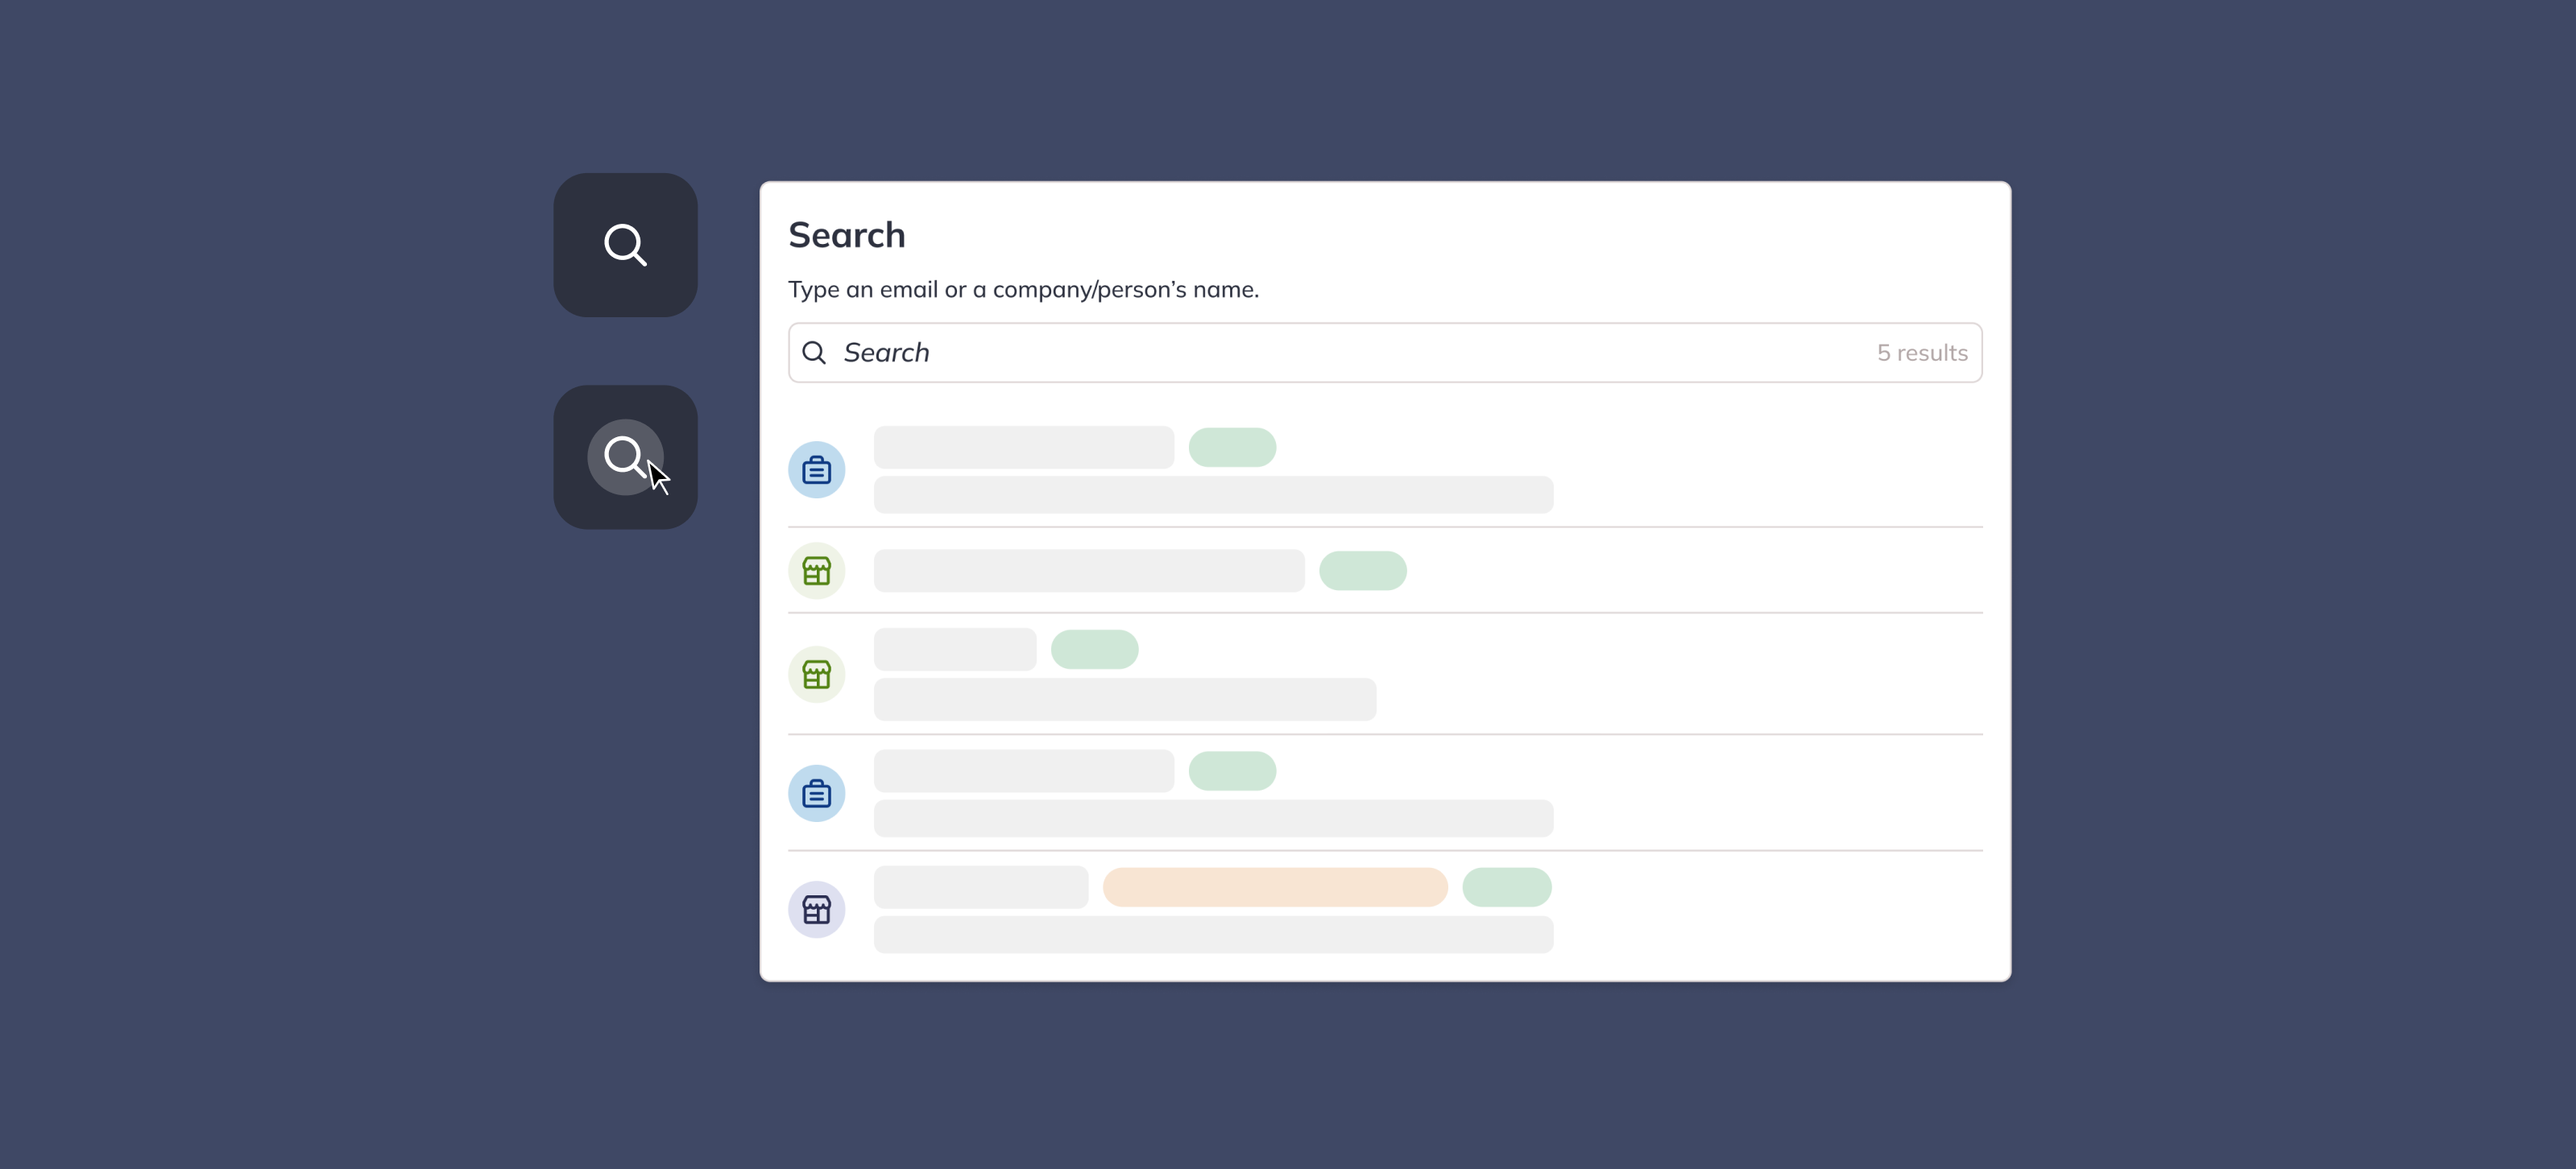
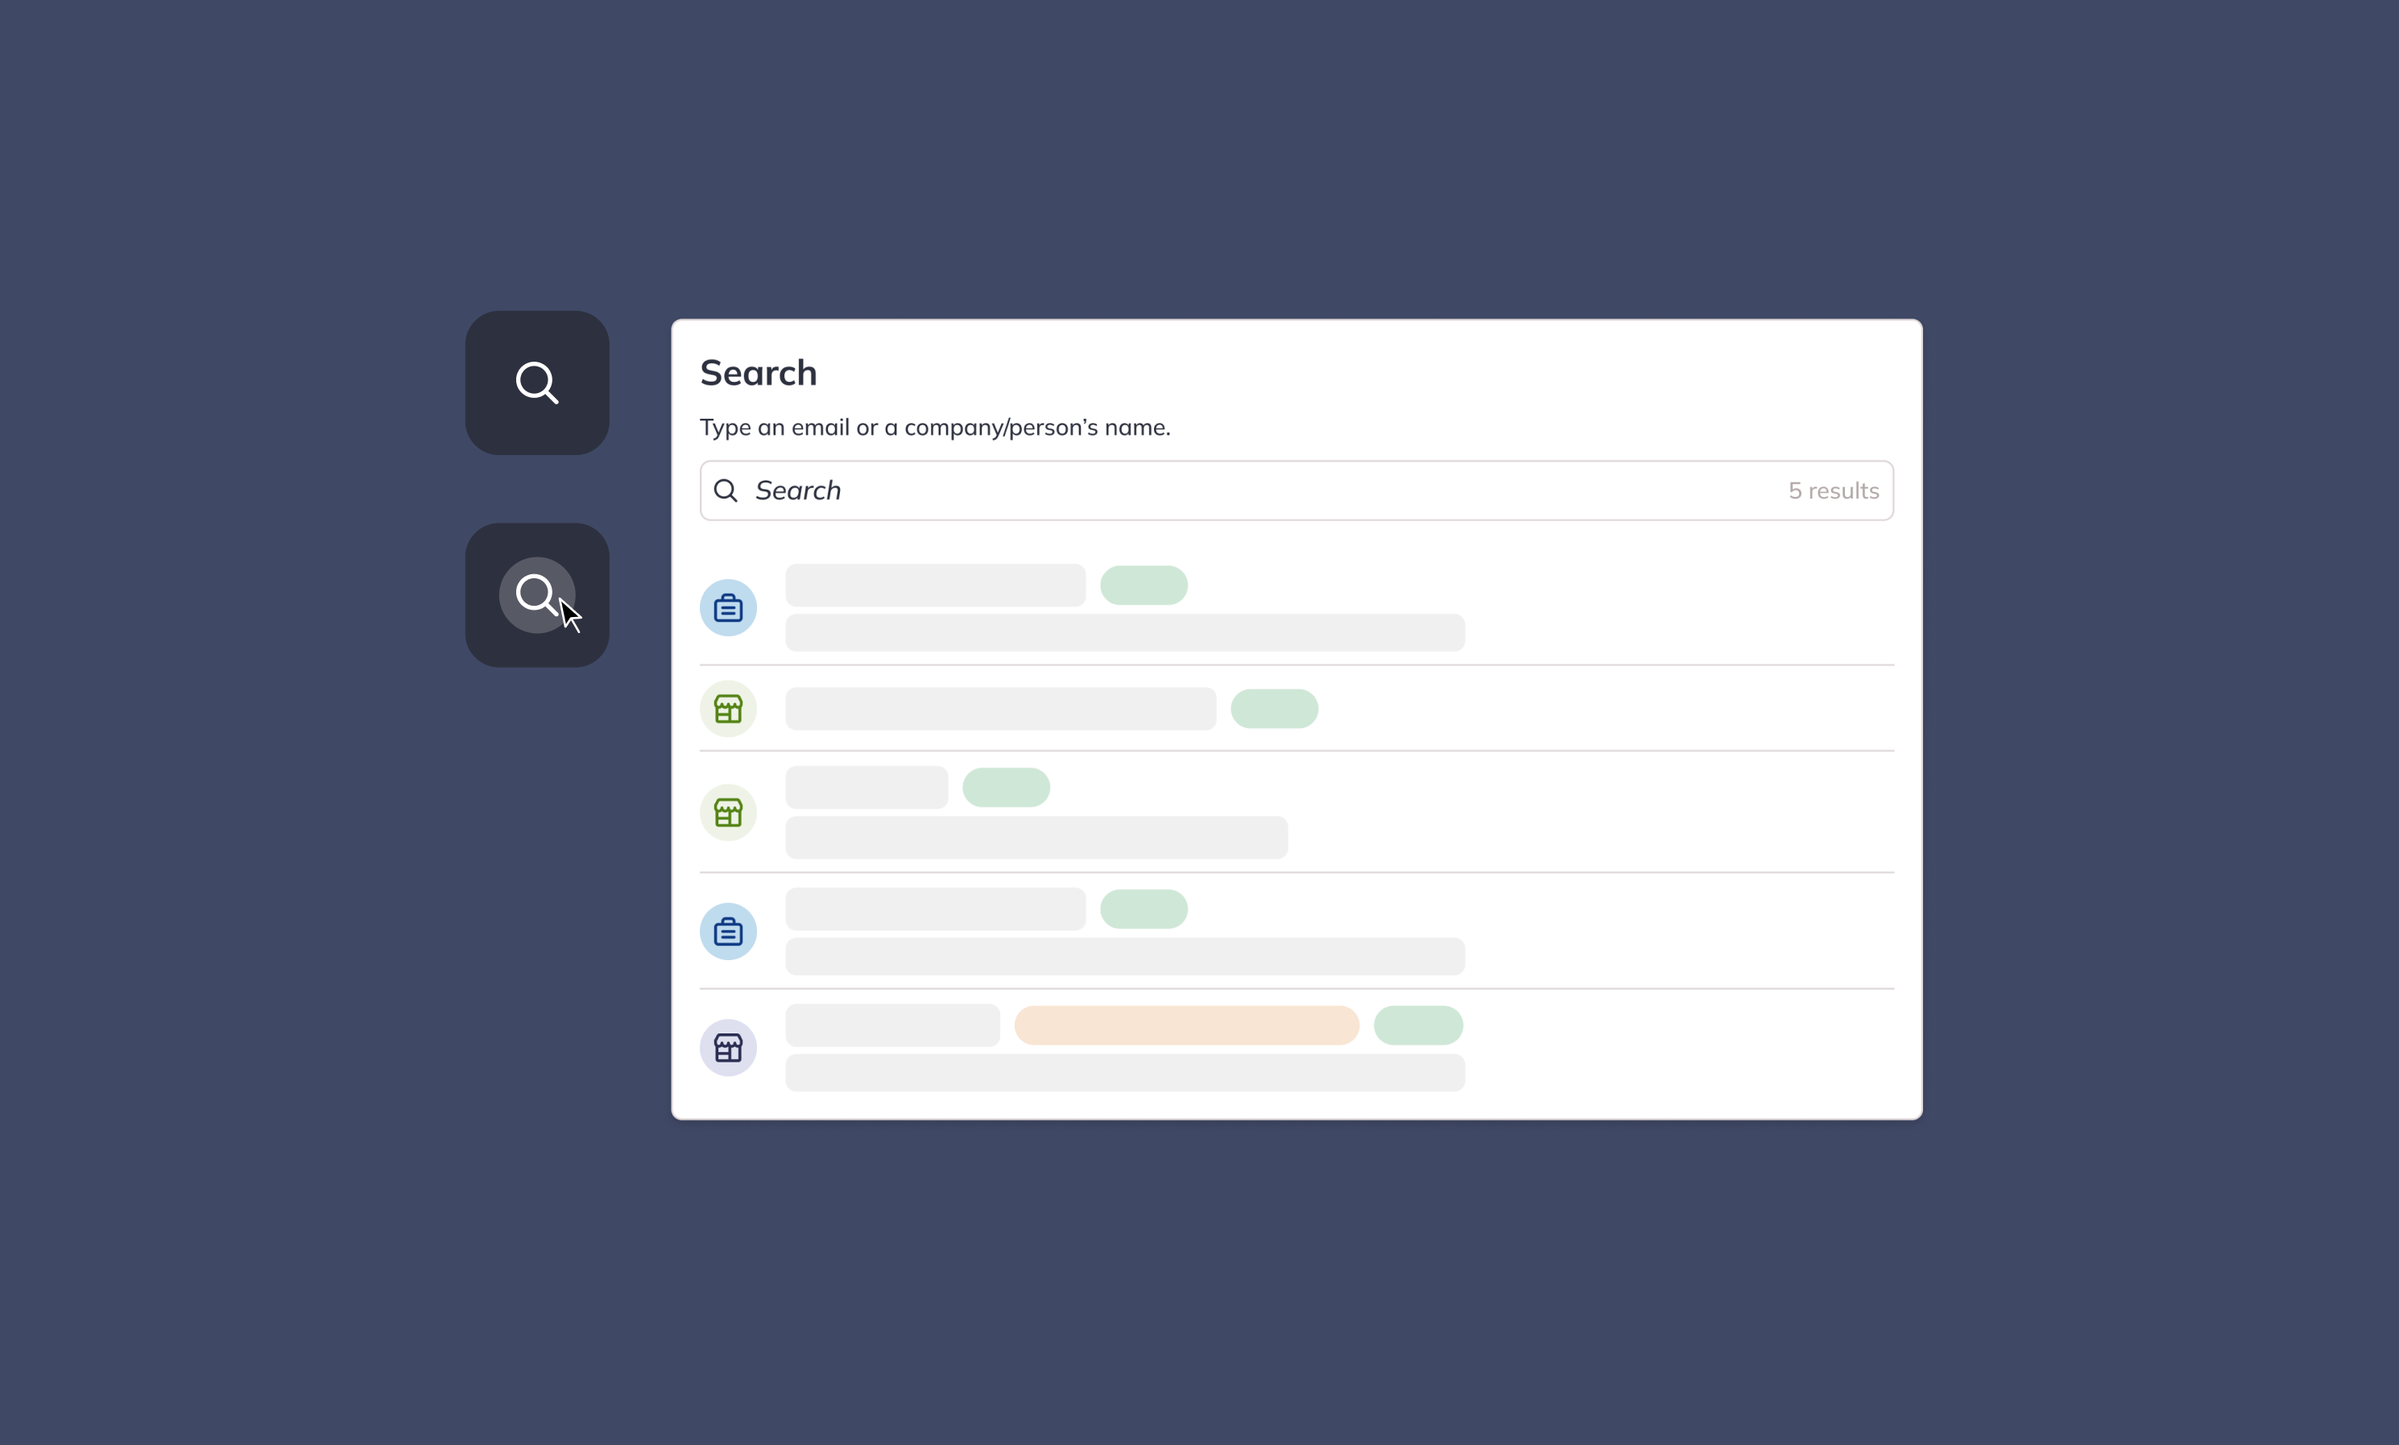
updated thumbnails, borders, and header content

diff --git a/app/wagepoint-alfred-search/page.tsx b/app/wagepoint-alfred-search/page.tsx
@@ -22,7 +22,7 @@ const AlfredSearch = () => {
 		<PageTransition>
 			<div className="section">
 				<ProjectHeader />
-				<div className="mt-8">
+				<div className="mt-8 max-w-4xl mx-auto">
 					<Lightbox imgSrc={Header} header={true} />
 				</div>
 
@@ -40,11 +40,10 @@ const AlfredSearch = () => {
 							<p>
 								Wagepoint’s support agents use an internal tool called Alfred.
 								They have difficulty tracking down which company they’re
-								providing support to. Multiple agents mentioned spending time to
-								“carry out little investigations”, “deep dive”, and “dig around”
-								due to the lack of information the current search function
-								provides. Sometime they’d have to email back and forth for this
-								information.
+								providing support to. Multiple agents needing to spend time to
+								investigate due to the lack of information the current search
+								function provides. Sometimes they’d have to email back and forth
+								for this information.
 							</p>
 						</ElTransition>
 					</div>
@@ -74,9 +73,9 @@ const AlfredSearch = () => {
 				</div>
 
 				<div className="mt-24 py-24 text-center">
-					<p className="text-2xl">
+					<p className="text-2xl md:px-12">
 						“Some customers don’t tell us who they are in the ticket and their
-						email is generic. It’s a daily occurrence. It’s{' '}
+						email is [generic]. It’s a daily occurrence. It’s{' '}
 						<i>very very frustrating.</i>”
 					</p>
 					<p className="text-gray-700 mt-2">Customer support specialist</p>
@@ -125,20 +124,22 @@ const AlfredSearch = () => {
 				</div>
 
 				<div className="mt-24">
-					<ElTransition>
-						<p className="monoFont mb-4 text-sm">Listening to our users</p>
-					</ElTransition>
-					<ElTransition>
-						<h2 className="h2 displayFont mb-4">Requirements</h2>
-					</ElTransition>
-					<ElTransition>
-						<p>
-							We chatted with the Alfred users which included support agents,
-							payroll specialist, and risk agents to learn about what they
-							needed in order to lower frustrations and make their workload more
-							efficient.
-						</p>
-					</ElTransition>
+					<div className="md:w-1/2">
+						<ElTransition>
+							<p className="monoFont mb-4 text-sm">Listening to our users</p>
+						</ElTransition>
+						<ElTransition>
+							<h2 className="h2 displayFont mb-4">Requirements</h2>
+						</ElTransition>
+						<ElTransition>
+							<p>
+								We chatted with the Alfred users which included support agents,
+								payroll specialist, and risk agents to learn about what they
+								needed in order to lower frustrations and make their workload
+								more efficient.
+							</p>
+						</ElTransition>
+					</div>
 					<div className="flex space-between gap-4 mt-8 flex-col md:flex-row">
 						<div className="blueCard">
 							<p>Identify account type</p>
@@ -173,7 +174,7 @@ const AlfredSearch = () => {
 				</div>
 
 				<div className="mt-24 py-24 text-center">
-					<p className="text-2xl">
+					<p className="text-2xl md:px-12">
 						“Getting the insight before you potentially reach back out to a
 						client, it just makes you feel a little <i>more empowered</i>.”
 					</p>
@@ -187,7 +188,7 @@ const AlfredSearch = () => {
 						</h2>
 					</ElTransition>
 					<ElTransition>
-						<p>
+						<p className="w-1/2">
 							The most common search terms were admin name, email, or company
 							name. So we tested use cases based on multiple matching results
 							from the search criteria.
@@ -258,7 +259,7 @@ const AlfredSearch = () => {
 					</div>
 				</div>
 
-				<div className="mt-24">
+				<div className="mt-4">
 					<div className="p-8 rounded bg-yellow-50 flex gap-4">
 						<div>
 							<svg
@@ -302,7 +303,7 @@ const AlfredSearch = () => {
 						<h2 className="text-4xl mb-4">The Alfred Global Search</h2>
 					</ElTransition>
 					<ElTransition>
-						<p>
+						<p className="w-1/2">
 							The new search function lives in the global navigation bar,
 							allowing all users to access the search function from anywhere.
 							This also removes one step of the process as it allows agents to

diff --git a/app/data.ts b/app/data.ts
@@ -9,6 +9,15 @@ import AlfredSearch from '@/app/assets/alfredsearch-thumbail.png';
 
 const projectData = [
 	{
+		id: 'wp-alfredsearch',
+		title: `Wagepoint Global Search`,
+		link: '/wagepoint-alfred-search',
+		description: 'Improving the search function for internal support agents',
+		image: AlfredSearch,
+		role: 'UX Designer & Developer',
+		size: 'w-full md:w-4/6',
+	},
+	{
 		id: 'qcdt',
 		title: 'Queer Club Directory Toronto',
 		link: '/queer-club-directory',
@@ -17,15 +26,6 @@ const projectData = [
 		image: Qcdt,
 		role: 'Interaction Designer & Developer',
 		size: 'w-full md:w-2/6',
-	},
-	{
-		id: 'wp-alfredsearch',
-		title: `Wagepoint Alfred Search`,
-		link: '/wagepoint-alfred-search',
-		description: 'Improving the search function for internal support agents',
-		image: AlfredSearch,
-		role: 'UX Designer & Developer',
-		size: 'w-full md:w-4/6',
 	},
 	{
 		id: 'tpol',
@@ -37,16 +37,16 @@ const projectData = [
 		role: 'Interaction Designer & Developer',
 		size: 'w-full md:w-4/6',
 	},
-	{
-		id: 'wp-ds',
-		title: `Wagepoint Design System`,
-		link: '/wagepoint-design-system',
-		description:
-			'Creating a scalable design system for a multi-product company',
-		image: Wpds,
-		role: 'UX Designer & Developer',
-		size: 'w-full md:w-2/6',
-	},
+	// {
+	// 	id: 'wp-ds',
+	// 	title: `Wagepoint Design System`,
+	// 	link: '/wagepoint-design-system',
+	// 	description:
+	// 		'Creating a scalable design system for a multi-product company',
+	// 	image: Wpds,
+	// 	role: 'UX Designer & Developer',
+	// 	size: 'w-full md:w-2/6',
+	// },
 	{
 		id: 'schroeder',
 		title: `Schroeder’s piano`,
@@ -77,14 +77,14 @@ const projectData = [
 		role: 'Interaction Designer & Developer',
 		size: 'w-full md:w-4/6',
 	},
-	{
-		id: 'freshii',
-		title: 'Super Mushroom filter',
-		link: '/super-mushroom',
-		description: `An Instagram filter of a mushroom haircut to promote Freshii’s Super Mushroom gummies`,
-		image: Freshii,
-		size: 'w-full md:w-2/6',
-	},
+	// {
+	// 	id: 'freshii',
+	// 	title: 'Super Mushroom filter',
+	// 	link: '/super-mushroom',
+	// 	description: `An Instagram filter of a mushroom haircut to promote Freshii’s Super Mushroom gummies`,
+	// 	image: Freshii,
+	// 	size: 'w-full md:w-2/6',
+	// },
 	// {
 	// 	id: '',
 	// 	title: '',

diff --git a/app/page.tsx b/app/page.tsx
@@ -4,11 +4,8 @@ import React from 'react';
 
 import projectData from './data';
 import PageTransition from '@/components/PageTransition';
-import TextSplitAnim from '@/components/TextSplitAnim';
 import LineSplitAnim from '@/components/LineSplitAnim';
 import { useSpring, animated, easings } from 'react-spring';
-
-import HeaderName from '@/components/HeaderName';
 
 const Home = () => {
 	const [cardProps, api] = useSpring(
@@ -28,32 +25,24 @@ const Home = () => {
 	return (
 		<PageTransition>
 			<div className="px-8">
-				<p className="splitAnim">
-					<LineSplitAnim
-						initDelay={1}
-						text={[
-							`I’m a UX Designer and Developer with experience in design systems,`,
-							`building for scalability, and making interactions delightful.`,
-						]}
-					/>
-				</p>
-
-				<p className="splitAnim mt-8 text-gray-500 dark:text-gray-300">
-					<LineSplitAnim
-						initDelay={1.75}
-						text={[
-							`Currently building payroll for small businesses at Wagepoint.`,
-						]}
-					/>
+				<p className="md:w-1/2 text-lg mt-8">
+					Hi, I’m Roneilla – a UX Designer and Developer with over 4 years of
+					experience designing and building for the physical and digital space.
+					<br></br>
+					<br></br>
+					For the past two years I’ve been at Wagepoint, leading the design
+					polish efforts to elevate and standardize the front-end. I also
+					spearhead the web accessibility initiative, improve the mobile
+					experience, and maintain the design system.
+					<br></br>
+					<br></br>I’m a problem-solver, builder, and a lifelong learner. After
+					hours, I’m sewing, practicing my softball swings, or building Queer
+					Club Directory.
 				</p>
 			</div>
 			<div className="section pb-0 mt-8">
-				<p className="splitAnim">
-					<LineSplitAnim
-						initDelay={2}
-						text={[`Selected Work`, `2020 - 2024`]}
-					/>
-				</p>
+				<p>Case studies</p>
+				<p>2020 - 2024</p>
 			</div>
 			<animated.div style={cardProps} className="relative">
 				<div className="px-1 mt-2 flex flex-wrap mb-8">
@@ -66,7 +55,7 @@ const Home = () => {
 							link={item.link}
 							imgSrc={item.image}
 							description={item.description}
-							size={item.size}
+							size="w-full md:w-1/2"
 						/>
 					))}
 				</div>

diff --git a/components/ProjectFooter.tsx b/components/ProjectFooter.tsx
@@ -24,14 +24,14 @@ const ProjectFooter = () => {
 			<div className="flex justify-between px-8 py-16 mt-4">
 				<PageOutTransition link={projectData[prev].link} className="footerBtn">
 					<p className="text-xl">Previous</p>
-					<p className="text-gray-500 dark:text-gray-300">
+					<p className="text-gray-600 dark:text-gray-300">
 						{projectData[prev].title}
 					</p>
 				</PageOutTransition>
 				<PageOutTransition link={projectData[next].link} className="footerBtn">
 					<div className="text-right">
 						<p className="text-xl">Next</p>
-						<p className="text-gray-500 dark:text-gray-300">
+						<p className="text-gray-600 dark:text-gray-300">
 							{projectData[next].title}
 						</p>
 					</div>

diff --git a/components/WorkCard.tsx b/components/WorkCard.tsx
@@ -18,7 +18,7 @@ const WorkCard = ({ id, title, description, imgSrc, link, ind, size }: any) => {
 					onMouseEnter={() => setHover(true)}
 					onMouseLeave={() => setHover(false)}>
 					<PageOutTransition link={link}>
-						<div className="overflow-hidden">
+						<div className="overflow-hidden rounded">
 							<Image
 								src={imgSrc}
 								alt=""
@@ -28,7 +28,7 @@ const WorkCard = ({ id, title, description, imgSrc, link, ind, size }: any) => {
 							/>
 						</div>
 						<p className="mt-4">{title}</p>
-						<p className="text-gray-500 dark:text-gray-300">{description}</p>
+						<p className="text-gray-600 dark:text-gray-300">{description}</p>
 					</PageOutTransition>
 				</div>
 			</div>

diff --git a/components/ProjectHeader.tsx b/components/ProjectHeader.tsx
@@ -11,7 +11,7 @@ const ProjectHeader = () => {
 	const index = projectData.findIndex((data) => data.link === pathname);
 
 	return (
-		<div className="sm:mt-8 md:w-2/3 pb-8">
+		<div className="sm:mt-8 pb-8 text-center">
 			<h1 className="h1 splitAnim">
 				<TextSplitAnim text={projectData[index].title} />
 			</h1>
@@ -21,7 +21,7 @@ const ProjectHeader = () => {
 					initDelay={0.75}
 				/>
 			</p>
-			{/* <p className="text-gray-500 dark:text-gray-300 mt-8 splitAnim">
+			{/* <p className="text-gray-600 dark:text-gray-300 mt-8 splitAnim">
 				<LineSplitAnim
 					text={[`Role: ${projectData[index].role}`]}
 					initDelay={1}

diff --git a/app/globals.css b/app/globals.css
@@ -52,6 +52,10 @@
 	--background-end-rgb: 255, 255, 255;
 }
 
+img {
+	border-radius: 10px;
+}
+
 /* ::-webkit-scrollbar {
 	width: 6px;
 }
@@ -94,7 +98,7 @@ body {
 
 ::selection {
 	background-color: #f2f3fd;
-	color: #7879bd;
+	color: #41428b;
 }
 
 * {
@@ -178,7 +182,7 @@ body {
 	}
 
 	.container {
-		@apply max-w-screen-2xl mx-auto pb-1;
+		@apply max-w-screen-xl mx-auto pb-1;
 	}
 
 	.section {
